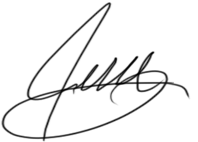
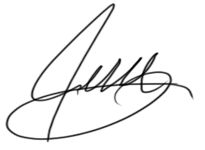
Added RSS feed
also:
- Bumped eleventy version
- Made signature more friendly for dark mode

diff --git a/.eleventy.js b/.eleventy.js
@@ -1,7 +1,9 @@
 /** @param {import("@11ty/eleventy").UserConfig} eleventyConfig */
 
 // plugins
-const eleventyNavigationPlugin = require("@11ty/eleventy-navigation");
+const eleventyPluginNavigation = require("@11ty/eleventy-navigation");
+const eleventyPluginRss = require("@11ty/eleventy-plugin-rss");
+
 
 // filters
 const limit = require("./src/_11ty/filters/limit.js");
@@ -30,7 +32,8 @@ module.exports = (eleventyConfig) => {
     eleventyConfig.addCollection("posts", posts);
 
     // plugins
-    eleventyConfig.addPlugin(eleventyNavigationPlugin);
+    eleventyConfig.addPlugin(eleventyPluginNavigation);
+    eleventyConfig.addPlugin(eleventyPluginRss);
 
     // passthrough copy
     eleventyConfig.addPassthroughCopy({ "./src/static/": "/" });
